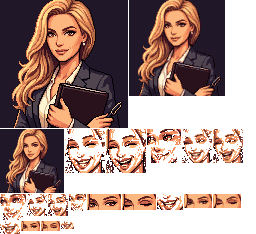
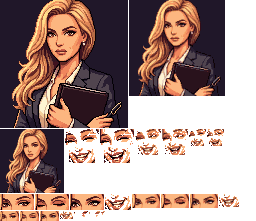
Iuliia: a composed face at rest, smiles as moments, a glance that stays in her eyes
Jeff: "Why does Iuliia have a creepy smile on all the time?" Her rest frame and
poster, iuliia.png, is now the portrait with a composed, closed mouth painted on
by portrait-sprites.py (the PixelLab original kept as iuliia-faces/portrait.png);
the original's half smile is a pose. portrait.ts: idle smiles briefly now and
then; wave smiles more often, a grin only at the peak; point looks aside,
mouth composed, glancing back with a small smile; laugh laughs briefly and
settles. Jeff then: the point mood's eyes moved on her face. The glance is now
painted from the rest frame, only the irises and pupils moving within the eye
openings, every lash, lid, brow, nose, mouth and hairline pixel the rest
frame's; the laugh takes only the eyes and mouth from its source frames, so the
nose and the face's outline stay put.

diff --git a/apps/web/src/portrait.ts b/apps/web/src/portrait.ts
@@ -4,38 +4,44 @@ import { ASSETS } from "./mapart.js";
  * Iuliia, drawn live (Jeff, 2026-11-01: "She has 3 arms. This is slop. Don't make her animations loops either").
  *
  * Her body never moves: one portrait, two hands, the folder in one and the pen in the other (assets/people/iuliia.png,
- * which is also the rest frame and the poster). What she does happens in her face, pasted over it from one small sheet
- * (assets/people/iuliia-sheet.png, cut by tools/portrait-sprites.py), with the nod, the breath and the pen's glint done
- * here. When she does it comes from dice that are a pure function of time, so nothing repeats on a cycle: a blink every
- * few seconds, a breath, now and then a small nod, a glance down at the folder, a glint along the pen; the mood sets her
- * face at rest (wave: a warm grin; point: a glance to the side with an eyebrow up, looking back now and then; laugh: a
- * grin that breaks into a laugh). At tMs 0, or whenever nothing is scheduled, she is exactly the portrait.
+ * which is also the rest frame and the poster). At rest her face is composed, lips closed, attentive (Jeff, 2026-11-02:
+ * "Why does Iuliia have a creepy smile on all the time?"); a smile is a moment like a blink. What she does happens in
+ * her face, pasted over it from one small sheet (assets/people/iuliia-sheet.png, cut by tools/portrait-sprites.py),
+ * with the nod, the breath and the pen's glint done here. When she does it comes from dice that are a pure function of
+ * time, so nothing repeats on a cycle: a blink every few seconds, a breath, now and then a small nod, a glance down at
+ * the folder, a glint along the pen, a brief warm smile. The mood changes how often and what: wave smiles more and
+ * warmly, a grin at its peak; point looks aside at what she's showing, glancing back with a small smile; laugh laughs
+ * now and then, a smile on either side of it, and settles back to rest. At tMs 0, or whenever nothing is scheduled, she
+ * is exactly the rest frame.
  */
 export type PortraitMood = "idle" | "wave" | "point" | "laugh";
 
 // <portrait> written by tools/portrait-sprites.py
 const CELLS: Record<string, readonly [number, number, number, number, number, number]> = {
-  "grin-128": [157, 194, 26, 16, 50, 42],
-  "grin-64": [61, 221, 13, 8, 25, 21],
-  "grin-96": [0, 221, 20, 13, 37, 31],
-  "half-128": [87, 194, 34, 16, 46, 24],
-  "half-64": [21, 221, 19, 10, 22, 11],
-  "half-96": [184, 194, 28, 14, 33, 17],
-  "laugh1-128": [65, 129, 40, 44, 44, 18],
-  "laugh1-64": [27, 194, 20, 22, 22, 9],
-  "laugh1-96": [182, 129, 30, 34, 33, 13],
-  "laugh2-128": [106, 129, 40, 44, 44, 18],
-  "laugh2-64": [48, 194, 20, 22, 22, 9],
-  "laugh2-96": [213, 129, 30, 34, 33, 13],
+  "grin-128": [105, 194, 26, 16, 50, 42],
+  "grin-64": [60, 211, 13, 8, 25, 21],
+  "grin-96": [219, 194, 20, 13, 37, 31],
+  "half-128": [0, 194, 34, 16, 46, 24],
+  "half-64": [0, 211, 19, 10, 22, 11],
+  "half-96": [132, 194, 28, 14, 33, 17],
+  "laugh1-128": [65, 129, 34, 34, 46, 24],
+  "laugh1-64": [189, 129, 17, 17, 23, 12],
+  "laugh1-96": [135, 129, 26, 26, 34, 18],
+  "laugh2-128": [100, 129, 34, 34, 46, 24],
+  "laugh2-64": [207, 129, 17, 17, 23, 12],
+  "laugh2-96": [162, 129, 26, 26, 34, 18],
   "rest-128": [0, 0, 128, 128, 0, 0],
   "rest-64": [0, 129, 64, 64, 0, 0],
   "rest-96": [129, 0, 96, 96, 0, 0],
-  "shut-128": [122, 194, 34, 16, 46, 24],
-  "shut-64": [41, 221, 19, 10, 22, 11],
-  "shut-96": [213, 194, 28, 14, 33, 17],
-  "side-128": [147, 129, 34, 34, 46, 24],
-  "side-64": [69, 194, 17, 17, 23, 12],
-  "side-96": [0, 194, 26, 26, 34, 18],
+  "shut-128": [35, 194, 34, 16, 46, 24],
+  "shut-64": [20, 211, 19, 10, 22, 11],
+  "shut-96": [161, 194, 28, 14, 33, 17],
+  "side-128": [70, 194, 34, 16, 46, 24],
+  "side-64": [40, 211, 19, 10, 22, 11],
+  "side-96": [190, 194, 28, 14, 33, 17],
+  "smile-128": [74, 211, 14, 6, 55, 49],
+  "smile-64": [101, 211, 4, 4, 31, 24],
+  "smile-96": [89, 211, 11, 6, 41, 36],
 };
 const PEN = [[120, 102], [118, 103], [117, 104], [116, 105], [115, 106], [114, 107], [113, 108], [112, 109], [111, 111], [111, 112]] as const;
 // </portrait>
@@ -86,11 +92,19 @@ function slot(t: number, len: number, p: number, dur: number, seed: number, lead
 
 function moment(mood: PortraitMood, t: number): Moment {
   const m: Moment = { face: null, eyes: null, nod: false, breath: false, glint: -1 };
-  // The mood's face at rest.
-  if (mood === "wave" || mood === "laugh") m.face = "grin";
-  if (mood === "point") m.face = slot(t, 6, 0.5, 1.2, 7) >= 0 ? null : "side";
-  // A laugh, now and then, in the laughing mood: it breaks, peaks twice and settles back to the grin.
-  const laugh = mood === "laugh" ? slot(t, 3.8, 0.8, 0.9, 11) : -1;
+  // A warm smile now and then, from rest and back to it; more often, and with a grin at its peak, when she waves.
+  const smile = mood === "wave" ? slot(t, 4.2, 0.85, 1.7, 13) : mood === "idle" ? slot(t, 6.5, 0.6, 1.8, 16) : -1;
+  if (smile >= 0) m.face = mood === "wave" && smile >= 0.3 && smile < 0.65 ? "grin" : "smile";
+  // Pointing, she looks aside at what she's showing, and now and then back at you with a small smile.
+  if (mood === "point") {
+    const back = slot(t, 6, 0.5, 1.4, 7);
+    if (back < 0) m.eyes = "side";
+    else if (back >= 0.2 && back < 0.8) m.face = "smile";
+  }
+  // Laughing, she laughs now and then: a smile, the laugh peaking twice, a smile, and back to rest.
+  const ls = mood === "laugh" ? slot(t, 5, 0.8, 1.7, 11) : -1;
+  const laugh = ls >= 0.15 && ls < 0.68 ? (ls - 0.15) / 0.53 : -1;
+  if (ls >= 0) m.face = "smile";
   if (laugh >= 0) m.face = laugh < 0.13 || (laugh >= 0.33 && laugh < 0.46) || laugh >= 0.8 ? "laugh1" : "laugh2";
   // Breathing: a slow rise every few seconds.
   m.breath = slot(t, 4.6, 0.95, 1.3, 1) >= 0;

diff --git a/apps/web/tools/portrait-sprites.py b/apps/web/tools/portrait-sprites.py
@@ -1,15 +1,18 @@
 #!/usr/bin/env python3
 """Iuliia's portrait sheet (Jeff, 2026-11-01: "She has 3 arms. This is slop. Don't make her animations loops").
 
-Her body never moves: one portrait, assets/people/iuliia.png, two hands (one on the folder, one with the pen), is the
-rest frame and the poster. Everything she does is a change to her face pasted over it: the source faces in
+Her body never moves: one portrait (assets/people/iuliia-faces/portrait.png), two hands, one on the folder and one with
+the pen. Her rest frame and poster, assets/people/iuliia.png, is that portrait with a composed, closed mouth painted on
+here (Jeff, 2026-11-02: "Why does Iuliia have a creepy smile on all the time?"), and the portrait's own half smile is
+one of her moments. Everything she does is a change to her face pasted over the rest frame: the source faces in
 assets/people/iuliia-faces (frames of PixelLab animations of that same portrait) are aligned to her face, and only the
 eye, mouth or face area where they differ is kept. src/portrait.ts plays them on a seeded schedule, with the nod, the
 breath and the pen's glint done in code. The sheet holds the rest frame and the patches at 128, 96 and 64 px, each size
 resized from the full composed face (area average snapped back to her colours) so a patch and its rest frame share
 every pixel they don't change.
 
-  portrait-sprites.py   → assets/people/iuliia-sheet.png, and the table between the portrait markers in src/portrait.ts
+  portrait-sprites.py   → assets/people/iuliia.png, assets/people/iuliia-sheet.png, and the table between the portrait
+                          markers in src/portrait.ts
 """
 import importlib.util
 import os
@@ -34,12 +37,40 @@ REGIONS = {"eyes": (46, 24, 80, 40), "mouth": (50, 42, 76, 58), "face": (44, 18,
 POSES = {
     "half": ("blink-half.png", ("eyes",)),
     "shut": ("blink.png", ("eyes",)),
-    "side": ("side.png", ("eyes", "mouth")),
+    "side": ("@glance", ("eyes",)),  # the glance aside: only the irises move, painted here from the rest frame
+    "smile": ("portrait.png", ("mouth",)),  # the portrait's own warm half smile, a moment now
     "grin": ("laugh1.png", ("mouth",)),
-    "laugh1": ("laugh1.png", ("face",)),
-    "laugh2": ("laugh2.png", ("face",)),
+    "laugh1": ("laugh1.png", ("eyes", "mouth")),  # eyes and mouth only: her nose and the face's outline stay put
+    "laugh2": ("laugh2.png", ("eyes", "mouth")),
 }
 PEN_BOX = (104, 100, 124, 113)  # the pen, above the hand that holds it, for its glint
+# Her composed mouth, painted over the portrait's half smile: the lips closed and level, the corners relaxed. Rows from
+# MOUTH_AT; "." keeps the portrait's pixel, a letter is one of the portrait's own skin and lip colours.
+MOUTH_AT = (54, 48)
+MOUTH = [
+    "...............",
+    "...........aaaa",
+    ".aojjjjjjjjoaa.",
+    ".iicccccccccia.",
+    "..gjff....fga..",
+    "...jjhhhhhjga..",
+    "..........jd...",
+]
+LIPS = {"a": (252, 182, 128), "d": (246, 151, 100), "f": (230, 122, 87), "g": (217, 109, 80), "h": (207, 98, 76),
+        "j": (185, 84, 68), "o": (125, 51, 43), "c": (102, 39, 36), "i": (83, 22, 23)}
+# Her glance aside, to the viewer's left: within each eye's opening the iris and pupil move over (the near eye two
+# pixels, the far, foreshortened one one) and the white fills in behind them; every lash, lid, brow and skin pixel is
+# the rest frame's, so her eyes move in her face and not on it. Rows of (x, y, the rest-frame pixel to copy, or "W" for
+# the white of the eye).
+GLANCE = [
+    # the far eye, rows 34 and 35
+    (49, 34, (50, 34)), (50, 34, (51, 34)), (51, 34, (52, 34)), (52, 34, (53, 34)), (53, 34, "W"),
+    (49, 35, (50, 35)), (50, 35, (51, 35)), (51, 35, (52, 35)), (52, 35, (53, 35)), (53, 35, "W"),
+    # the near eye, rows 33 and 34
+    (67, 33, (69, 33)), (68, 33, (70, 33)), (69, 33, (71, 33)), (70, 33, (72, 33)), (71, 33, (68, 33)), (72, 33, "W"),
+    (66, 34, (68, 34)), (67, 34, (69, 34)), (68, 34, (70, 34)), (69, 34, (71, 34)), (70, 34, (72, 34)), (71, 34, "W"), (72, 34, "W"),
+]
+WHITE = (239, 219, 199)
 
 
 def flat(img: np.ndarray, bg: np.ndarray) -> np.ndarray:
@@ -88,11 +119,32 @@ def composed(base: np.ndarray, src: np.ndarray, areas) -> np.ndarray:
     return out
 
 
+def glance(rest: np.ndarray) -> np.ndarray:
+    out = rest.copy()
+    for x, y, src in GLANCE:
+        out[y, x, :3] = WHITE if src == "W" else rest[src[1], src[0], :3]
+    return out
+
+
+def composed_mouth(portrait: np.ndarray) -> np.ndarray:
+    out = portrait.copy()
+    x0, y0 = MOUTH_AT
+    for r, row in enumerate(MOUTH):
+        for c, ch in enumerate(row):
+            if ch != ".":
+                out[y0 + r, x0 + c, :3] = LIPS[ch]
+    return out
+
+
 def main() -> None:
-    base = pm.read_png(os.path.join(PEOPLE, "iuliia.png"))
+    base = composed_mouth(pm.read_png(os.path.join(PEOPLE, "iuliia-faces", "portrait.png")))
+    pm.write_png(os.path.join(PEOPLE, "iuliia.png"), base)
     bg = base[0, 0, :3].astype(np.float32)
     poses = {}
     for name, (file, areas) in POSES.items():
+        if file == "@glance":
+            poses[name] = glance(base)
+            continue
         src = flat(pm.read_png(os.path.join(PEOPLE, "iuliia-faces", file)), bg)
         poses[name] = composed(base, aligned(src, base), areas)
     cells: dict = {}
